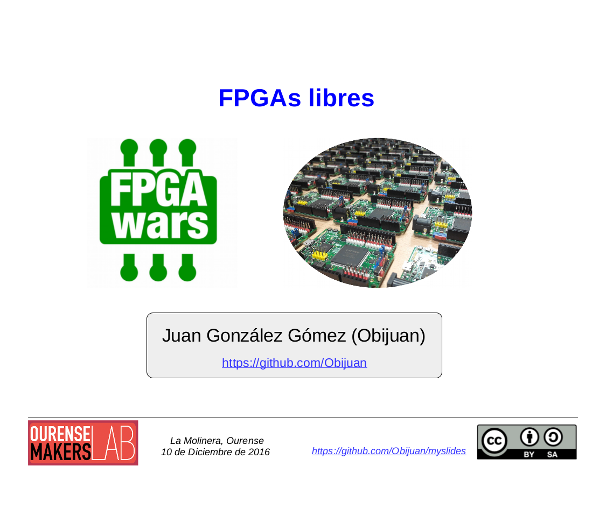
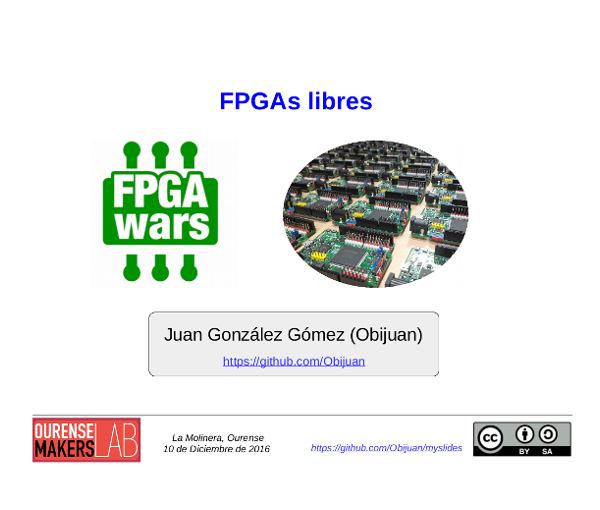
Update talk-6 image

diff --git a/index.html b/index.html
@@ -1,5 +1,7 @@
 <!DOCTYPE html>
 
+<html>
+
 <head>
 
     <meta charset="utf-8">
@@ -16,8 +18,8 @@
     <!-- Custom Fonts -->
     <link href="vendor/font-awesome/css/font-awesome.min.css" rel="stylesheet" type="text/css">
     <link href="https://fonts.googleapis.com/css?family=Montserrat:400,700" rel="stylesheet" type="text/css">
-    <link href='https://fonts.googleapis.com/css?family=Droid+Serif:400,700,400italic,700italic' rel='stylesheet' type='text/css'>
-    <link href='https://fonts.googleapis.com/css?family=Roboto+Slab:400,100,300,700' rel='stylesheet' type='text/css'>
+    <link href="https://fonts.googleapis.com/css?family=Droid+Serif:400,700,400italic,700italic" rel="stylesheet" type="text/css">
+    <link href="https://fonts.googleapis.com/css?family=Roboto+Slab:400,100,300,700" rel="stylesheet" type="text/css">
 
     <!-- Theme CSS -->
     <link href="css/FPGAwars.min.css" rel="stylesheet">

diff --git a/README.md b/README.md
@@ -17,4 +17,4 @@ If you need to update the plugins included with this template, simply run the fo
 
 Project and Tutorials images: 600x510 px
 
-Workshops and Talks images: scale to 550, add canvas 500x510 px
+Workshops and Talks images: scale to 550, add canvas 600x510 px
